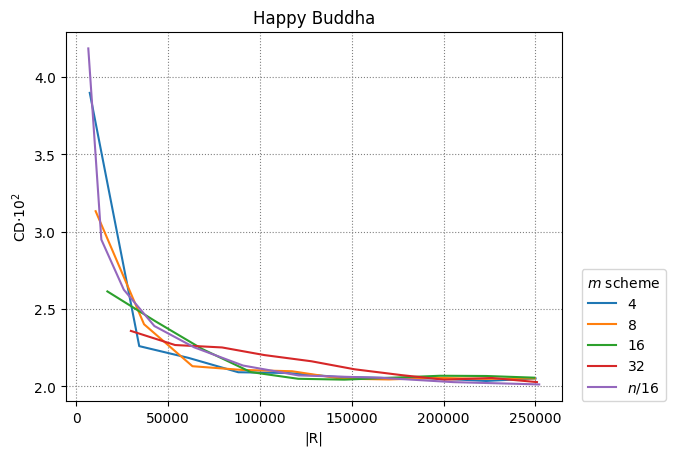
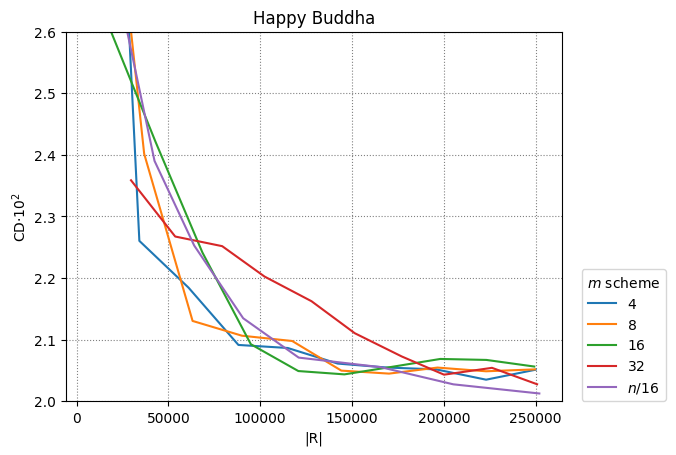
adjust optimize targeted

diff --git a/analysis/optimize_targeted.py b/analysis/optimize_targeted.py
@@ -57,7 +57,7 @@ def plot_results(M_values: list[str], R_values: list[list[int]], distances: list
     
     ax.set_ylabel('CD$\\cdot10^2$')
     #ax.set_xlim([0, 150000])
-    #ax.set_ylim([1.3, 1.6])
+    ax.set_ylim([1.75, 2.1])
     ax.set_xlabel('|R|')
     ax.set_title(f'{model_name_dict[model_name]}')
     ax.legend(loc=(1.04, 0), title='$m$ scheme')
